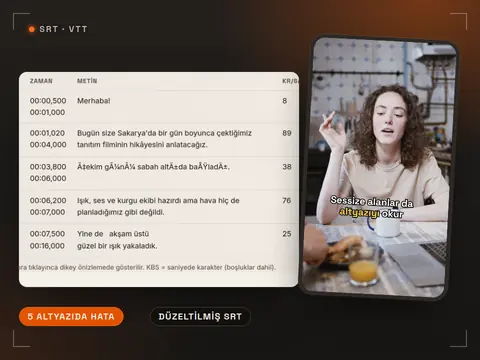
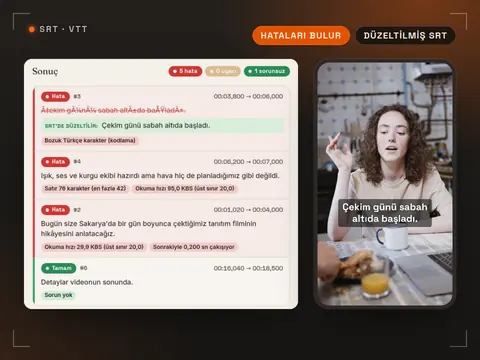
Altyazı kontrolü: okunur sonuç listesi (durum çipleri, bozuk karakter → düzeltilmiş önizleme, mobil kart düzeni), fotoğraflı burn-in önizleme, yeni kart görseli

diff --git a/scripts/araclar-kartlar/kartlar.py b/scripts/araclar-kartlar/kartlar.py
@@ -75,6 +75,7 @@ def frame(key, w, h, body="", pos="center", extra=""):
             '.hook{position:absolute;left:50%;transform:translateX(-50%);background:#fff;color:#111;font:700 70px/1.12 SG;padding:20px 34px 24px;border-radius:22px;text-align:center;width:max-content;max-width:880px;box-shadow:0 10px 30px rgba(0,0,0,.35)}'
             '.cap{position:absolute;left:90px;right:170px;text-align:center;color:#fff;font:700 74px/1.12 SG;-webkit-text-stroke:12px #000;paint-order:stroke fill;letter-spacing:-.01em}'
             '.cap em{font-style:normal;color:#FFD23F}'
+            '.sub{position:absolute;left:50%;transform:translateX(-50%);width:max-content;max-width:800px;text-align:center;color:#fff;font:700 76px/1.22 SG;padding:16px 34px 20px;border-radius:18px;background:rgba(0,0,0,.58);text-shadow:0 2px 10px rgba(0,0,0,.55)}'
             '.cov{position:absolute;left:70px;right:70px;text-align:center;color:#fff;font:700 112px/1 SG;letter-spacing:-.02em;text-shadow:0 6px 30px rgba(0,0,0,.6)}'
             '.cov i{display:block;width:120px;height:12px;background:#FF6A1A;margin:0 auto 34px;border-radius:6px}'
             '.shade{position:absolute;inset:0;background:linear-gradient(180deg,transparent 45%,rgba(0,0,0,.55) 80%)}'
@@ -95,7 +96,9 @@ KARE = {
     # 9:16 talking heads with Turkish hook + caption (so UI overlays visibly matter)
     "dikey-reels": (th("th-reels", "Bunu kimse söylemiyor…", "Yazını <em>buraya</em> koy", "50% 30%"), 1080, 1920),
     "dikey-tiktok": (th("th-tiktok", "İlk 3 saniye her şey", "Kanca <em>üstte</em> kalsın", "55% 30%"), 1080, 1920),
-    "dikey-altyazi": (th("th-altyazi", "", "Sessize alanlar da <em>altyazıyı</em> okur", "40% 40%", cap_y=1180), 1080, 1920),
+    # burned-in subtitle the way the tool draws it: white text, soft shadow, translucent box, inside the safe zone
+    "dikey-altyazi": (frame("th-altyazi", 1080, 1920, '<div class="sub" style="bottom:620px">Çekim günü sabah<br>altıda başladı.</div>', "40% 40%"), 1080, 1920),
+    "dikey-altyazi-temiz": (frame("th-altyazi", 1080, 1920, "", "40% 40%"), 1080, 1920),
     "dikey-kapak": (frame("th-kapak", 1080, 1920, "", "50% 30%"), 1080, 1920),
     "yt-kucuk": (frame("th-youtube", 1280, 720,
         '<div style="position:absolute;inset:0;background:linear-gradient(90deg,transparent 35%,rgba(0,0,0,.72) 70%)"></div>'
@@ -119,6 +122,9 @@ if not ONLY or "capture" in ONLY:
     shoot([{"url": f"{BASE}/_ornek/kare/{k}.html", "out": str(WORK / f"{k}.jpg"), "w": w, "h": h, "scale": 1, "wait": 900} for k, (_, w, h) in KARE.items()], "kare")
     # sample frame for the safe-zone tool's "Örnek kareyle dene" button (served from public/)
     Image.open(WORK / "dikey-reels.jpg").convert("RGB").save(ROOT / "public/araclar/guvenli-alan/rast-ornek-kare-1080x1920.jpg", quality=80, optimize=True, progressive=True)
+    # clean background frame for the subtitle tool's burn-in preview canvas
+    (ROOT / "public/araclar/altyazi-kontrolu").mkdir(parents=True, exist_ok=True)
+    Image.open(WORK / "dikey-altyazi-temiz.jpg").convert("RGB").save(ROOT / "public/araclar/altyazi-kontrolu/rast-ornek-kare-9x16.jpg", quality=78, optimize=True, progressive=True)
 
 # LUT before/after: own .cube from the pack on a golden-hour portrait
 lut_src = Image.open(WORK / "src" / "lut.jpg").convert("RGB")
@@ -136,6 +142,16 @@ const sl=(m)=>new Promise(r=>setTimeout(r,m));
 const load=async(sel,urls,type='image/jpeg')=>{const dt=new DataTransfer();for(const u of urls){const b=await (await fetch(u)).blob();dt.items.add(new File([b],u.split('/').pop(),{type}));}const i=document.querySelector(sel);i.files=dt.files;i.dispatchEvent(new Event('change',{bubbles:true}));};
 const rect=(sel)=>{const e=document.querySelector(sel);if(!e)return {missing:sel};e.scrollIntoView({block:'center'});const r=e.getBoundingClientRect();return {clip:{x:r.left+scrollX,y:r.top+scrollY,width:r.width,height:r.height}}};
 """
+# Subtitle checker: run the sample, show all rows, keep 4 representative ones (bozuk karakter, çok hızlı,
+# çakışma, sorunsuz), max 2 badges each, and capture the result panel at a fixed card-friendly width.
+ALTYAZI_JS = """const s2=document.createElement('style');s2.textContent='.ak-res{width:600px;padding:18px 18px 14px;background:#f4efe8;border-radius:0} .ak-res .yt-note,.ak-res [data-resactions],.ak-res .ak-foot{display:none!important} .ak-list{max-height:none!important} .ak-row{grid-template-columns:auto minmax(0,1fr)!important;grid-template-areas:"st time" "text text" "iss iss"!important;padding:12px 14px!important;gap:8px 10px!important} .ak-head,.ak-meta{display:none!important} .ak-st{grid-area:st;flex-direction:row!important;align-items:center;gap:8px!important} .ak-time{grid-area:time;justify-self:end;align-self:center} .ak-text{grid-area:text} .ak-iss{grid-area:iss} .ak-row.is-sel{box-shadow:none!important}';document.head.append(s2);
+document.querySelector('[data-sample]').click();await sl(500);const o=document.querySelector('[data-only]');o.checked=false;o.dispatchEvent(new Event('change'));await sl(300);
+const keep={'3':2,'4':1,'2':2,'6':1};const pref={'3':['Bozuk'],'4':['Okuma hızı','Satır'],'2':['çakışıyor','Okuma hızı'],'6':[]};
+document.querySelectorAll('.ak-row').forEach(li=>{const n=String(+li.dataset.i+1);if(!(n in keep)){li.remove();return;}
+ const bs=[...li.querySelectorAll('.ak-iss .yt-badge')];const want=pref[n];const pick=want.length?want.map(w=>bs.find(b=>b.textContent.includes(w))).filter(Boolean):bs.slice(0,1);
+ bs.forEach(b=>{if(!pick.includes(b))b.remove();});});
+const ol=document.querySelector('.ak-rows');['3','4','2','6'].forEach(n=>{const li=[...ol.children].find(l=>String(+l.dataset.i+1)===n);li&&ol.append(li);});
+await sl(300);return rect('[data-res]');"""
 NINE = "[" + ",".join(f"'/_ornek/g{i}.jpg'" for i in range(1, 10)) + "]"
 CAP = {
     "guvenli-reels": ("araclar/guvenli-alan", "await load('[data-tool] [data-file]',['/_ornek/dikey-reels.jpg']);await sl(800);return rect('.frame');"),
@@ -143,7 +159,7 @@ CAP = {
     "bitrate-result": ("araclar/bitrate-hesaplayici", "return rect('[data-calc] .result');"),
     "enboy-src": ("araclar/en-boy-orani", "await load('[data-tool] [data-file]',['/_ornek/yatay-roportaj.jpg']);await sl(800);return rect('[data-canvas]');"),
     "enboy-out": ("araclar/en-boy-orani", "await load('[data-tool] [data-file]',['/_ornek/yatay-roportaj.jpg']);await sl(800);return rect('[data-out]');"),
-    "altyazi": ("araclar/altyazi-kontrolu", "document.querySelector('[data-sample]').click();await sl(500);document.querySelector('[data-check]')?.click();await sl(800);return rect('[data-results] table') ;"),
+    "altyazi": ("araclar/altyazi-kontrolu", ALTYAZI_JS),
     "kapak-wrap": ("araclar/kapak-sablonlari", "await load('[data-tool] [data-file]',['/_ornek/dikey-kapak.jpg']);await sl(800);const t=document.querySelector('[data-title]');t.value='Çekim günü: 5 hata';t.dispatchEvent(new Event('input',{bubbles:true}));await sl(700);return rect('[data-wrap]');"),
     "ig-grid": ("araclar/instagram-grid-sablonu", f"await load('[data-tool] [data-file]',{NINE});await sl(1500);return rect('[data-grid]');"),
     "planlayici": ("cekim-planlayici", "const gs=[...document.querySelectorAll('[data-planner] .chips')];for(const g of gs){const ls=[...g.querySelectorAll('label')];[0,2,3].forEach(i=>ls[i]&&ls[i].click());}await sl(300);document.querySelector('[data-planner] button[type=submit]')?.click();await sl(800);return rect('[data-planner]');"),
@@ -230,10 +246,12 @@ CARDS = {
       <span class="tag" style="left:90px;top:569px">16:9 kayıt</span>
       <div class="ph" style="left:590px;top:99px;width:300px"><img src="{R}enboy-out.png"></div>
       <span class="tag o" style="left:750px;top:629px">9:16</span>"""),
+    # left: real result panel (fully visible, 4 rows), right: straight phone with the burned-in subtitle;
+    # group centred: 48 px side margins, 32 px gap, both blocks 500 px tall on the same top line.
     "altyazi-kontrolu": card(f"""
-      <div class="win" style="left:38px;top:144px;width:560px;height:430px"><img src="{R}altyazi.png" style="width:1150px;max-width:none;margin-left:-20px"></div>
-      <div class="ph" style="left:608px;top:74px;width:300px;transform:rotate(3deg)"><img src="/_ornek/dikey-altyazi.jpg"></div>
-      <span class="tag o" style="left:38px;top:614px">5 altyazıda hata</span><span class="tag" style="left:300px;top:614px">Düzeltilmiş SRT</span>""", "SRT · VTT"),
+      <div class="win" style="left:48px;top:118px;width:548px;height:500px;background:#f4efe8;display:flex;align-items:center"><img src="{R}altyazi.png" style="width:100%"></div>
+      <div class="ph" style="left:628px;top:118px;width:284px;height:500px"><img src="/_ornek/dikey-altyazi.jpg" style="width:100%;height:100%;object-fit:cover"></div>
+      <div style="position:absolute;right:48px;top:52px;display:flex;gap:10px;z-index:5"><span class="tag o" style="position:static">Hataları bulur</span><span class="tag" style="position:static">Düzeltilmiş SRT</span></div>""", "SRT · VTT"),
     "cekim-plani": docs("d-plan", f"{A}/cekim-plani/rast-ornek-cekim-plani-onizleme-2.webp", f"{A}/cekim-plani/rast-ornek-cekim-plani-onizleme-1.webp", "30% 50%"),
     "cekim-planlayici": card(bgp("planlayici", "center", "blur(3px) brightness(.55)") + f"""
       <div class="win" style="left:110px;top:90px;width:740px;height:540px;background:#efe8df"><img src="{R}planlayici.png"></div>""", "Plan"),
